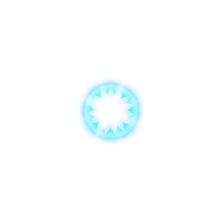
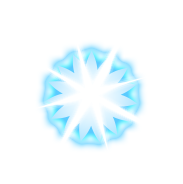
-

Changed region(s): [[0.1913, 0.2174, 0.7923, 0.8152]]

diff --git a/style/hello.css b/style/hello.css
@@ -1,24 +1,18 @@
 #all {
-    /*width: 100%;*/
     position: fixed;
     left: 50%;
     top: 50%;
-    -webkit-transform: translate(-50%, -50%);
-    -moz-transform: translate(-50%, -50%);
-    -ms-transform: translate(-50%, -50%);
-    -o-transform: translate(-50%, -50%);
-    transform: translate(-50%, -50%);
-
-    animation: vertical-animation 2s .5s;
-    animation-timing-function: cubic-bezier(.42, 0, 1, 1);
+    margin-left: -100px;
+    margin-top: -100px;
+    animation: vertical-animation 1.8s ease-in-out 0.2s;
 }
 
 #light {
     background: url("../images/light.png") no-repeat;
-    width: 222px;
-    height: 222px;
+    width: 80px;
+    height: 80px;
     background-size: cover;
-    animation: hor-animation 2s linear .5s;
+    animation: hor-animation 1.8s ease-in-out .2s;
 }
 
 @-moz-keyframes hor-animation {
@@ -41,19 +35,24 @@
 
 @-moz-keyframes vertical-animation {
     0% {
-        transform: translateY(-400px);
+        transform: translateY(0);
+    }
+    25% {
+        transform:translateY(-50%);
     }
     100% {
-        transform: translateY(0px);
+        transform: translateY(0);
     }
 }
 
 @-webkit-keyframes vertical-animation {
     0% {
-        transform: translateY(-400px);
+        transform: translateY(0);
+    }
+    25% {
+        transform:translateY(-50%);
     }
     100% {
-        transform: translateY(0px);
+        transform: translateY(0);
     }
-
 }

diff --git a/main.js b/main.js
@@ -126,7 +126,7 @@ function showClassBall() {
         transparent: true,  //使窗口透明
         alwaysOnTop: true,
         x: size.width - 129,
-        y: size.height / 2 - 200
+        y: size.height / 2 - 100
     });
 
     // win_ball.webContents.openDevTools();

diff --git a/style/ball_new.css b/style/ball_new.css
@@ -42,6 +42,7 @@ ul, li {
     right: 0;
     top:50%;
     margin-top: -108px;
+    cursor: pointer;
     /*-webkit-transition: all 0.5s ease;*/
     /*transition: all 0.5s ease;*/
 }
